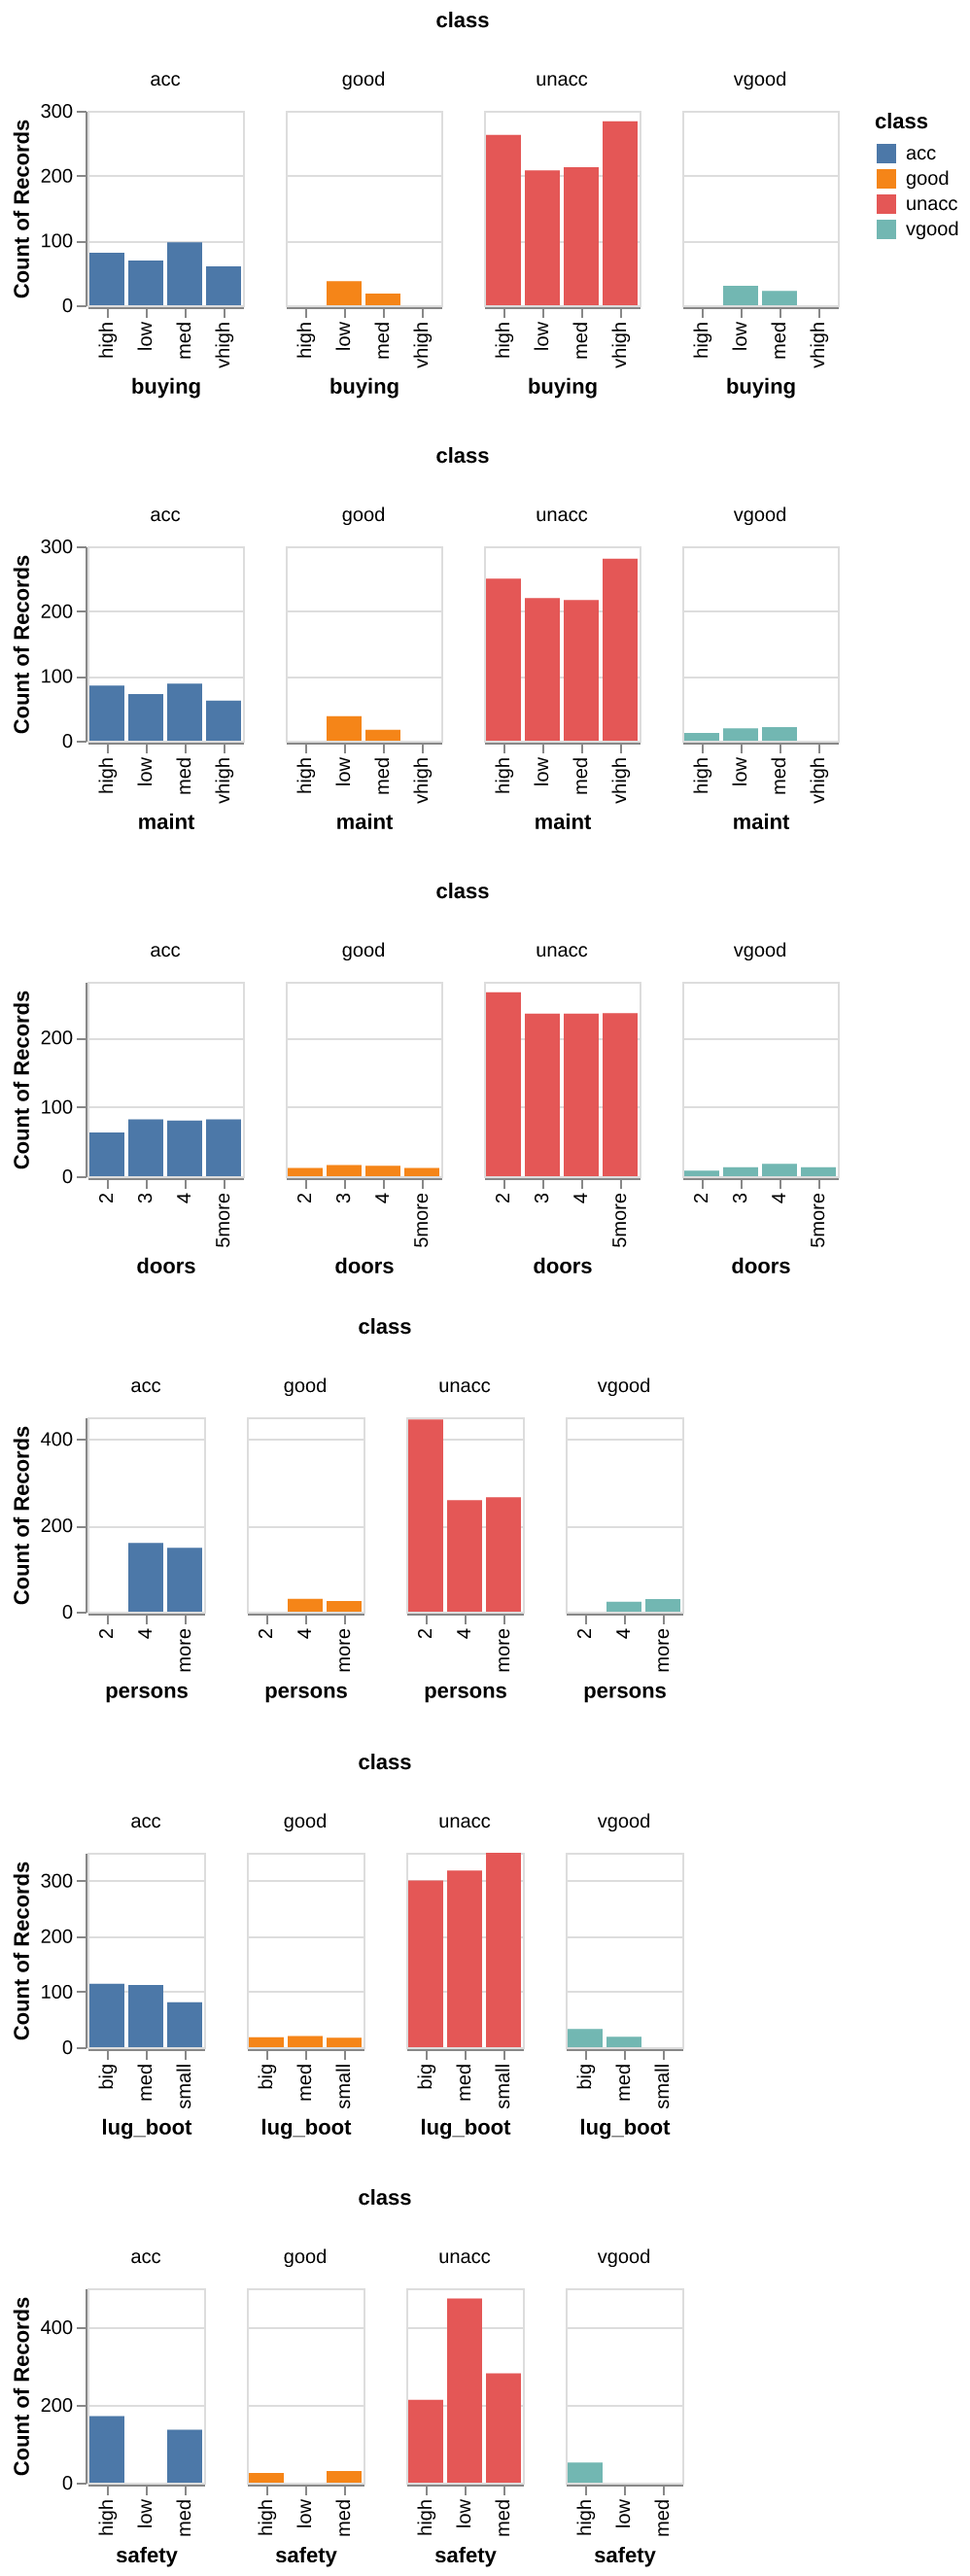
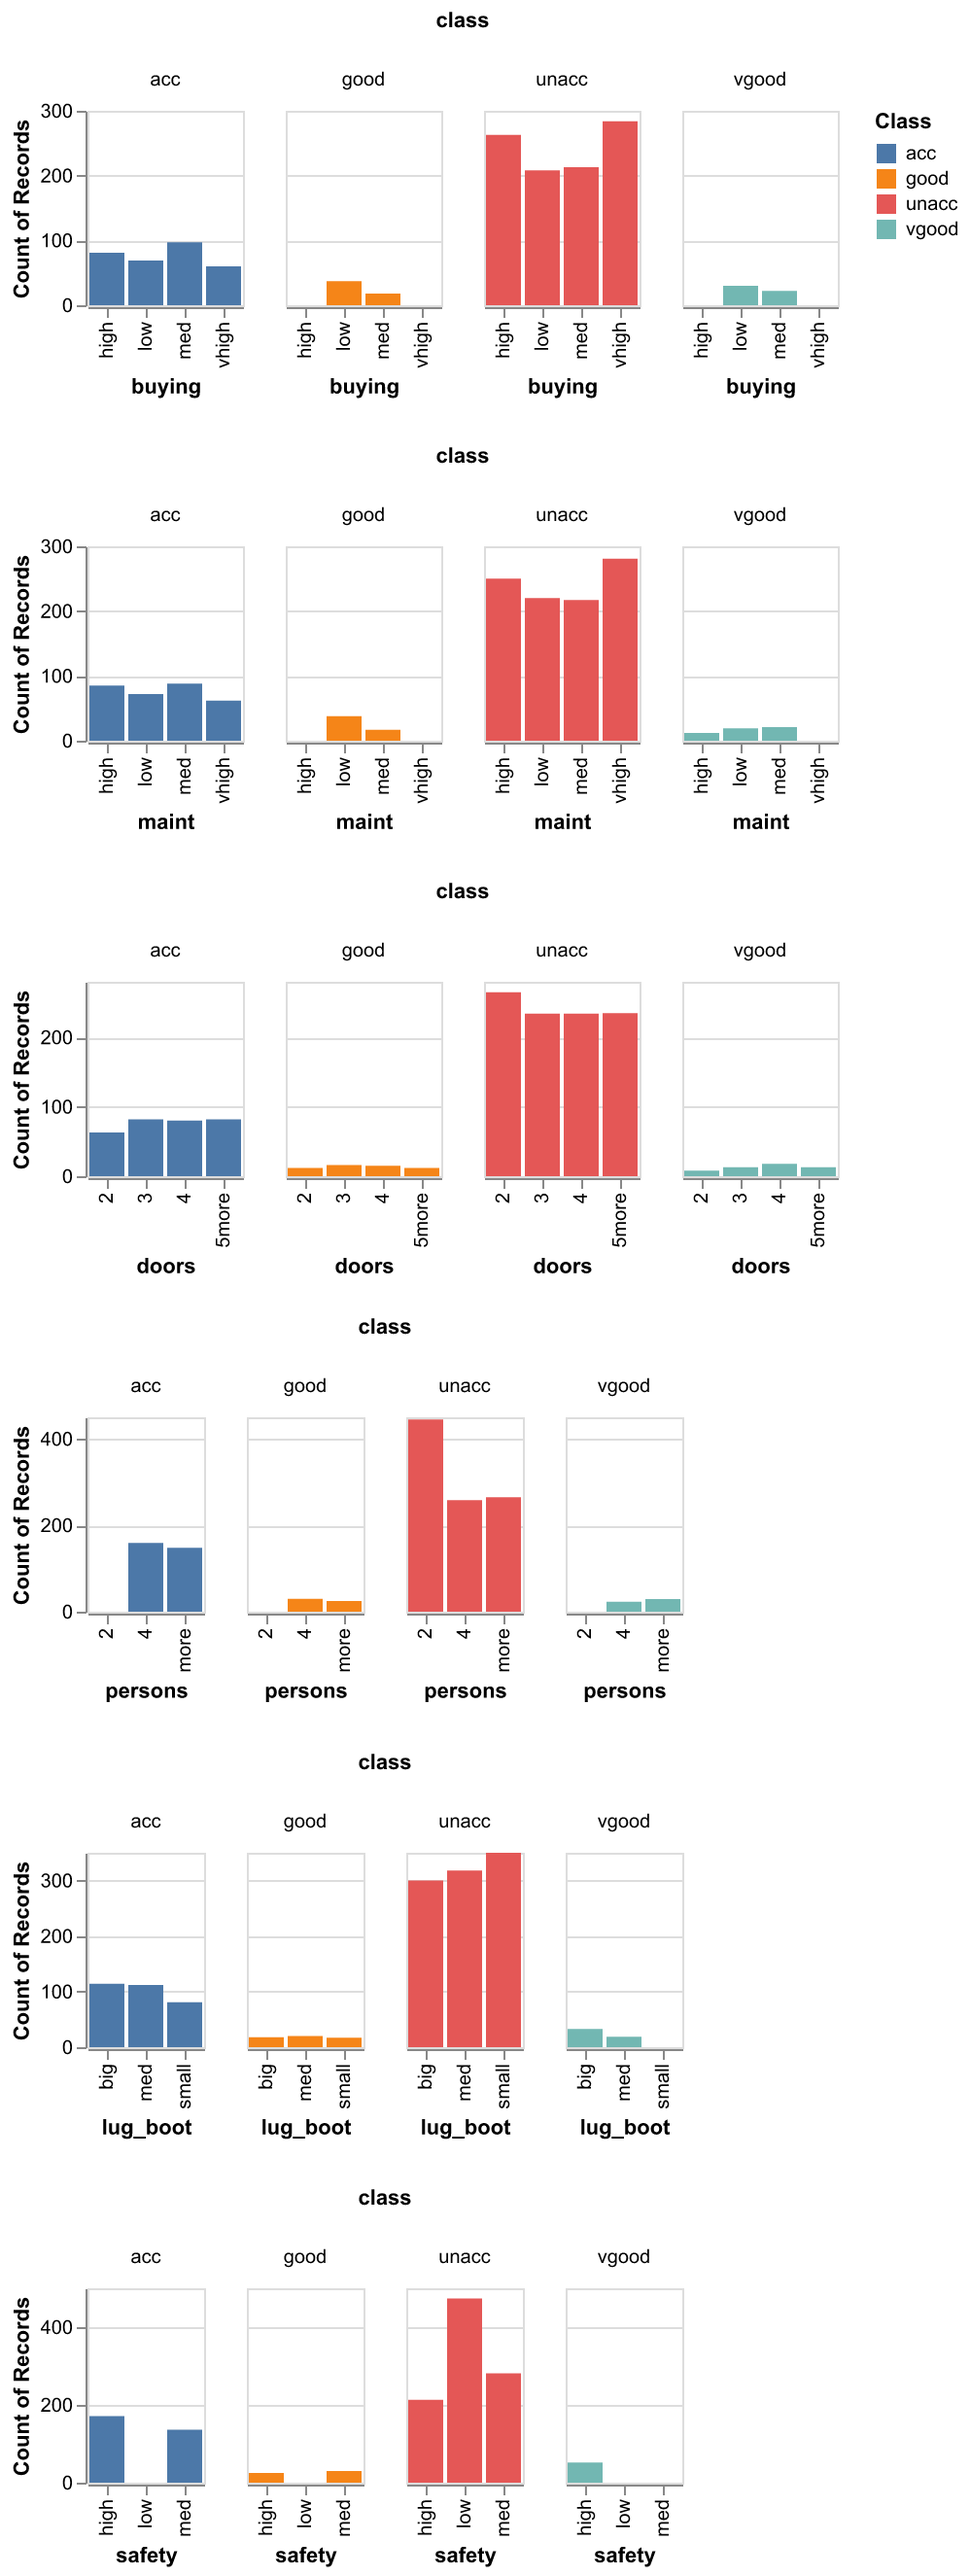
update eda

diff --git a/scripts/eda.py b/scripts/eda.py
@@ -1,31 +1,37 @@
 # eda.py
 # author: Zuer Zhong
 # date: 2024-12-03
-
 import click
 import os
 import altair as alt
-import numpy as np
 import pandas as pd
-from sklearn.model_selection import train_test_split
 
 @click.command()
+@click.option('--raw-data', type=str, required=True, help="Path to raw data (before preprocessing)")
 @click.option('--processed-training-data', type=str, required=True, help="Path to processed training data")
 @click.option('--plot-to', type=str, required=True, help="Path to directory where the plot will be written to")
-def main(processed_training_data, plot_to):
+def main(raw_data, processed_training_data, plot_to):
     '''Plots the count of each feature in the processed training data
         by class and displays them as a grid of plots. Also saves the plot.'''
 
+    car_data_raw = pd.read_csv(raw_data)
+    raw_target_distribution = alt.Chart(car_data_raw).mark_bar().encode(
+        x=alt.X('class', title='Target Class (Raw Data)'),
+        y=alt.Y('count()', title='Count'),
+        color=alt.Color('class', legend=None)
+    ).properties(
+        title='Target Variable Distribution (Raw Data)',
+        width=300,
+        height=200
+    )
+    raw_target_distribution.save(os.path.join(plot_to, "target_distribution_raw.png"), scale_factor=2.0)
+
+
     car_train = pd.read_csv(processed_training_data)
-
-    # Ensure plot_to directory exists
-    os.makedirs(plot_to, exist_ok=True)
-
-    # exploratory data analysis - visualize predictor distributions across classes
     plot = alt.Chart(car_train).mark_bar().encode(
         x=alt.X(alt.repeat('row')),
         y='count()',
-        color=alt.Color('class'),
+        color=alt.Color('class', title='Class'),
         column='class'
     ).properties(
         height=100
